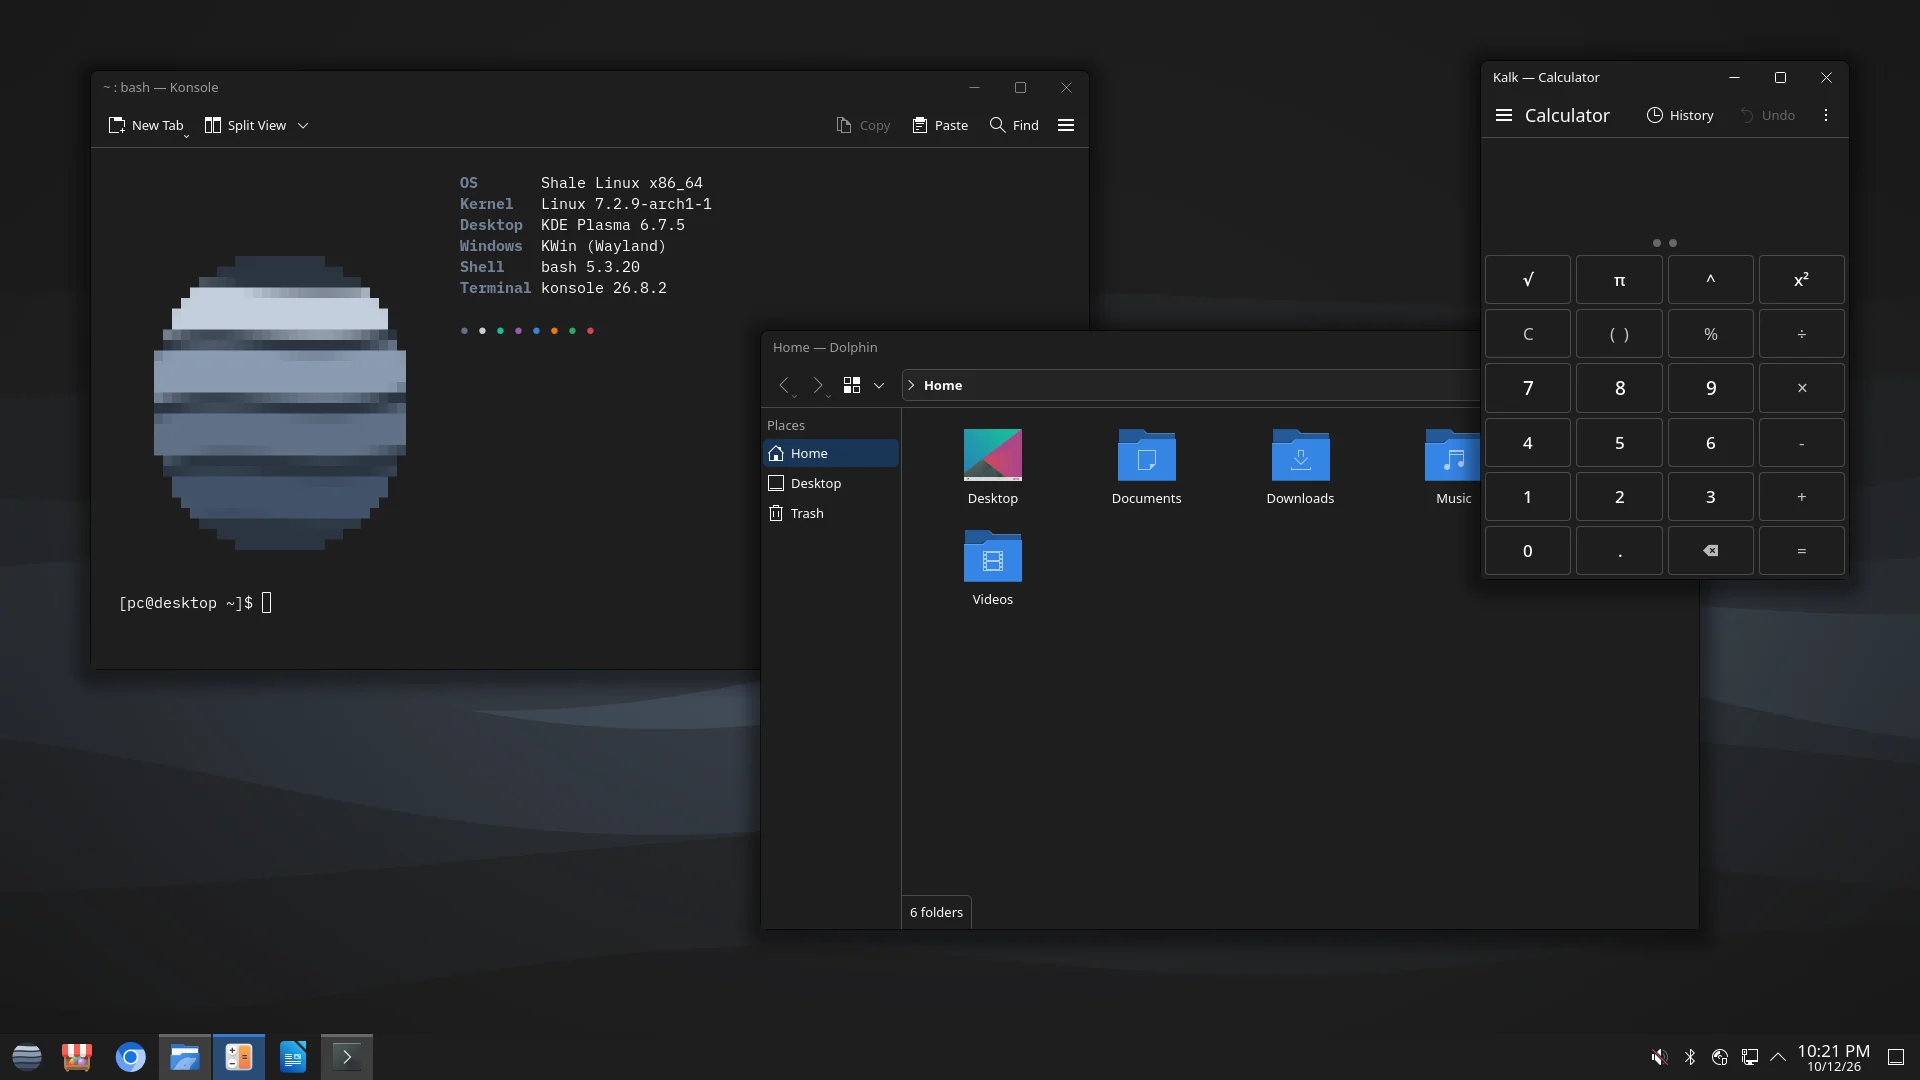
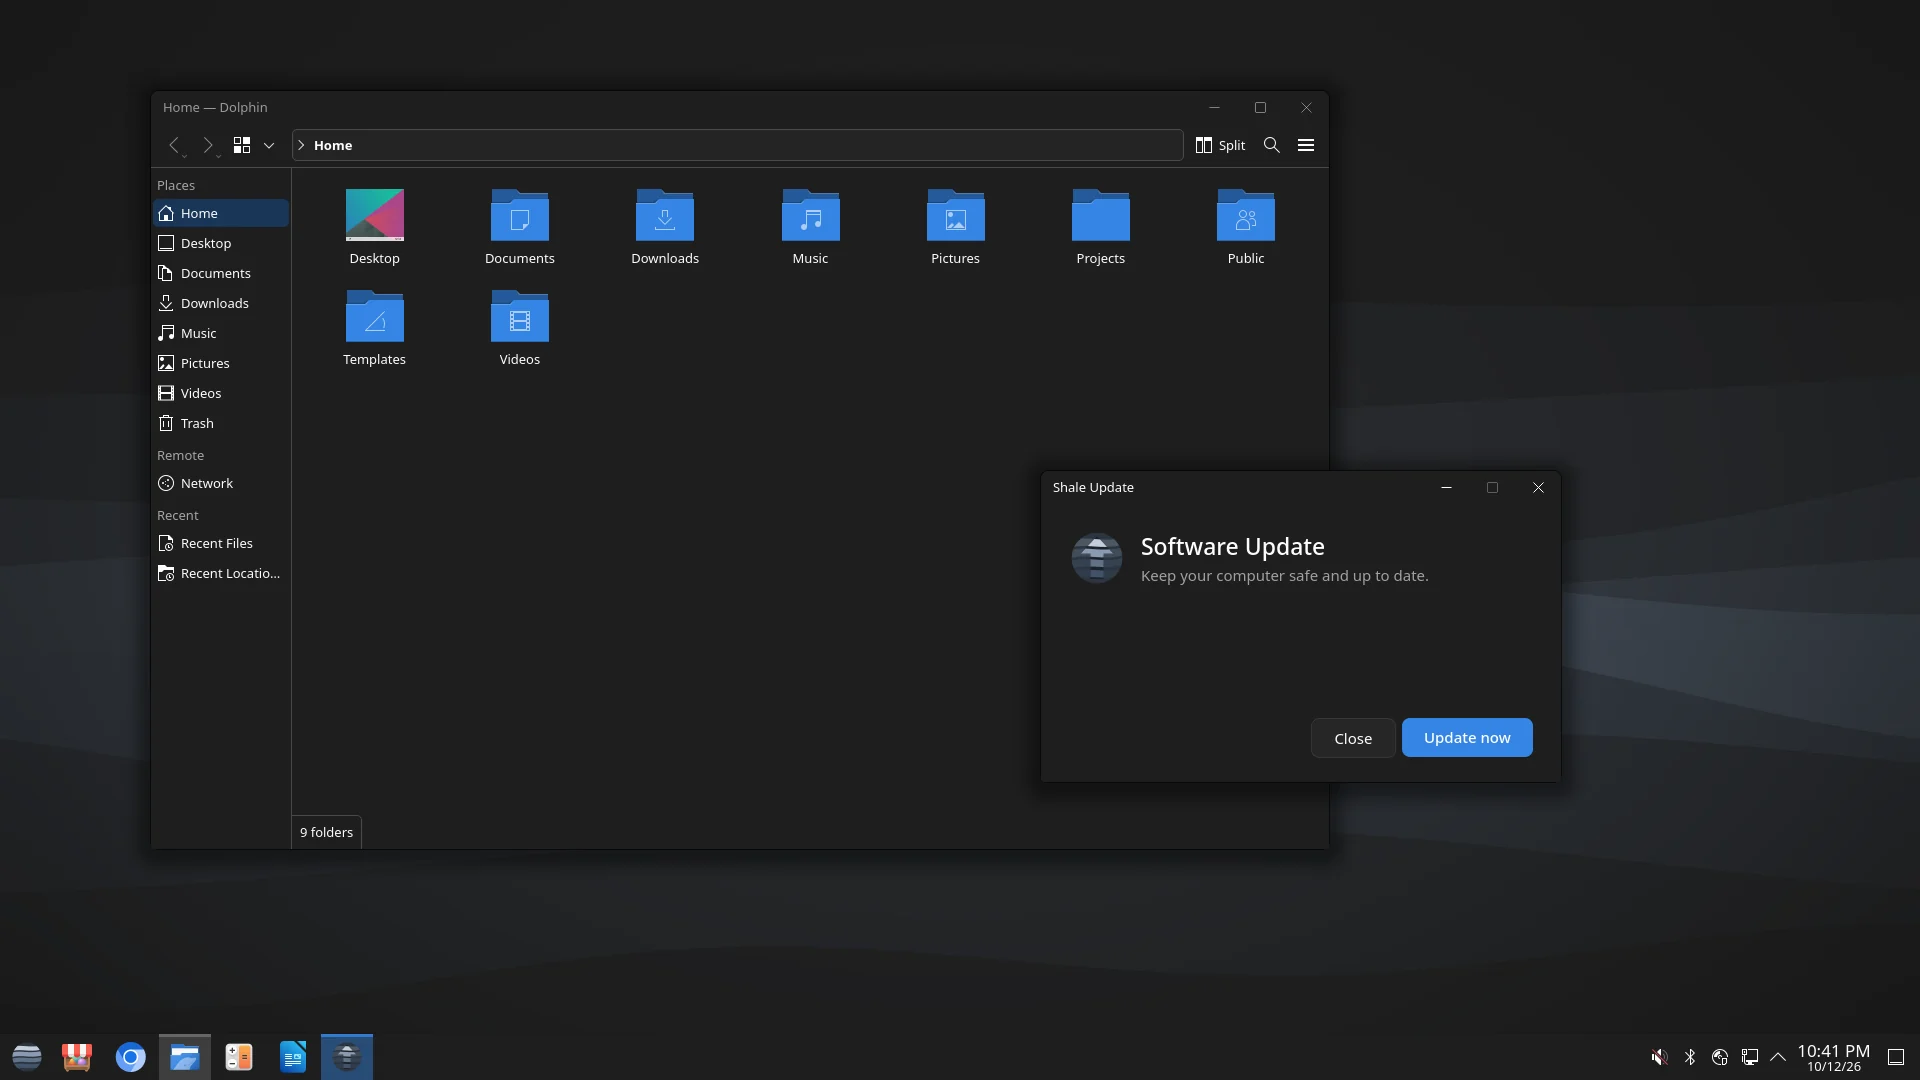
Website: back to the original look, with the theme switcher
Keep the original colours and logo hero. Show Software Update and the
file manager (default sidebar) in each theme, put Updates before
Snapshots and drop the "If you've used Windows" section.

diff --git a/website/index.html b/website/index.html
@@ -10,21 +10,17 @@
 <link rel="preconnect" href="https://fonts.gstatic.com" crossorigin>
 <link rel="stylesheet" href="https://fonts.googleapis.com/css2?family=Bricolage+Grotesque:opsz,wght@12..96,400..800&family=Figtree:wght@400;500;600&display=swap">
 <style>
-/* Layout: a calm, friendly walk-through that shows the desktop itself. A welcoming
-   hero with a big real screenshot over soft wavy strata, a theme switcher, then one idea
-   per section, ending in a plain FAQ. Warm, soft greys with gentle colour glows, the
-   logo's slate and Shale's blue as accents. Dark only, like the desktop's default. */
+/* Layout: a calm, friendly walk-through. A big welcoming hero over soft wavy strata,
+   then one idea per section, alternating text and pictures, ending in a plain FAQ.
+   The desktop's own colours (#1e1e1e, like Shale Dark) with the logo's slate as the
+   accent. Deliberately dark only, like the desktop itself. */
 :root {
   color-scheme: dark;
-  --ground: #16151a;       /* page: a soft, slightly warm near-black */
-  --raised: rgb(255 255 255 / .04);  /* cards, panels */
-  --seam: rgb(255 255 255 / .08);    /* borders */
-  --ink: #ebe7e2;          /* text: warm off-white, easier on the eyes */
-  --soft: #aaa4ac;         /* secondary text */
-  --glow-blue: rgb(53 132 228 / .20);
-  --glow-peach: rgb(242 169 126 / .13);
-  --glow-lilac: rgb(155 109 200 / .14);
-  --peach: #f2b48f;
+  --ground: #161616;       /* page: a step darker than Shale Dark */
+  --raised: #1e1e1e;       /* cards, panels: Shale Dark */
+  --seam: #2e2e2e;         /* borders */
+  --ink: #ececec;          /* text */
+  --soft: #a3a3a3;         /* secondary text */
   --mist: #c3cfdc;         /* accent: the logo's top stratum */
   --on-mist: #15191f;
   --blue: #3584e4;         /* buttons: Shale's accent, as in its own apps */
@@ -39,21 +35,16 @@
 * { box-sizing: border-box; }
 html { scroll-behavior: smooth; }
 @media (prefers-reduced-motion: reduce) { html { scroll-behavior: auto; } }
-body { margin: 0; background: var(--ground); color: var(--ink); font: 400 1.0625rem/1.65 var(--body); -webkit-font-smoothing: antialiased;
-  background-image: radial-gradient(60rem 40rem at 85% -5%, var(--glow-blue), transparent 70%),
-                    radial-gradient(50rem 36rem at 0% 30%, var(--glow-lilac), transparent 70%),
-                    radial-gradient(56rem 40rem at 100% 65%, var(--glow-peach), transparent 70%),
-                    radial-gradient(50rem 36rem at 10% 95%, var(--glow-blue), transparent 70%);
-  background-repeat: no-repeat; }
+body { margin: 0; background: var(--ground); color: var(--ink); font: 400 1.0625rem/1.65 var(--body); -webkit-font-smoothing: antialiased; }
 a { color: inherit; text-underline-offset: 3px; }
 a:focus-visible, button:focus-visible, summary:focus-visible { outline: 2px solid var(--mist); outline-offset: 3px; border-radius: 6px; }
 .wrap { max-width: 1100px; margin-inline: auto; padding-inline: 20px; }
 h1, h2, h3 { font-family: var(--display); margin: 0; text-wrap: balance; letter-spacing: -0.015em; }
-h2 { font-size: clamp(2rem, 4.2vw, 2.9rem); font-weight: 650; line-height: 1.1; }
+h2 { font-size: clamp(2rem, 4.2vw, 2.9rem); font-weight: 700; line-height: 1.08; }
 h3 { font-size: 1.25rem; font-weight: 650; line-height: 1.25; }
 p { margin: 0; }
 .lede { color: var(--soft); font-size: 1.15rem; max-width: 56ch; }
-.kicker { display: inline-block; justify-self: start; font: 600 0.9rem/1 var(--body); color: var(--peach); background: rgb(242 180 143 / .1); border: 1px solid rgb(242 180 143 / .22); padding: 7px 12px; border-radius: 999px; }
+.kicker { font: 600 0.95rem/1 var(--body); color: var(--soft); }
 
 /* nav */
 .nav { display: flex; align-items: center; justify-content: space-between; gap: 16px; padding-block: 22px; }
@@ -65,13 +56,8 @@ p { margin: 0; }
 
 /* hero */
 .hero { position: relative; overflow: hidden; }
-.hero-in { position: relative; z-index: 1; display: grid; justify-items: center; text-align: center; padding-block: 40px 0; }
-.hero-in .lede { margin-inline: auto; }
-.hero-in .cta, .hero-in .reassure { justify-content: center; }
-.hero h1 { font-size: clamp(2.6rem, 6.2vw, 4.6rem); font-weight: 750; line-height: 1.04; letter-spacing: -0.03em; max-width: 16ch; }
-.showcase { position: relative; z-index: 1; margin: 56px auto 0; max-width: 1100px; padding-bottom: 120px; }
-.screen { display: block; width: 100%; height: auto; border-radius: 16px; border: 1px solid rgb(255 255 255 / .1);
-  box-shadow: 0 2px 0 rgb(255 255 255 / .04) inset, 0 40px 90px -20px rgb(0 0 0 / .65), 0 0 0 10px rgb(255 255 255 / .03); }
+.hero-in { position: relative; z-index: 1; display: grid; grid-template-columns: minmax(0, 1.2fr) minmax(0, 0.8fr); gap: 40px; align-items: center; padding-block: 48px 220px; }
+.hero h1 { font-size: clamp(2.8rem, 6.6vw, 5rem); font-weight: 800; line-height: 1.02; letter-spacing: -0.03em; }
 .hero .lede { margin-top: 22px; font-size: 1.25rem; }
 .cta { display: flex; flex-wrap: wrap; gap: 12px; margin-top: 30px; }
 .btn { display: inline-flex; align-items: center; gap: 10px; padding: 15px 24px; border-radius: 14px; font: 600 1.05rem/1 var(--body); text-decoration: none; border: 1px solid var(--seam); color: var(--ink); background: var(--raised); transition: border-color .15s, transform .15s; }
@@ -84,7 +70,10 @@ p { margin: 0; }
 .reassure { display: flex; flex-wrap: wrap; gap: 8px 20px; margin-top: 20px; color: var(--soft); font-size: 0.95rem; list-style: none; padding: 0; }
 .reassure li { display: flex; align-items: center; gap: 7px; }
 .reassure li::before { content: ""; width: 8px; height: 8px; border-radius: 50%; background: var(--good); }
-#strata { position: absolute; inset: auto 0 0 0; width: 100%; height: 340px; display: block; }
+.hero-mark { justify-self: center; width: min(100%, 340px); aspect-ratio: 1; max-width: 100%; }
+.hero-mark svg { width: 100%; height: 100%; filter: drop-shadow(0 26px 44px rgb(0 0 0 / .35)); }
+#strata { position: absolute; inset: auto 0 0 0; width: 100%; height: 200px; display: block; }
+.screen { display: block; width: 100%; height: auto; border-radius: 10px; border: 1px solid var(--seam); box-shadow: 0 24px 60px rgb(0 0 0 / .45); }
 
 /* themes */
 .themes { text-align: center; }
@@ -106,7 +95,7 @@ p { margin: 0; }
 
 /* everyday */
 .everyday { display: grid; grid-template-columns: repeat(3, minmax(0, 1fr)); gap: 16px; margin-top: 40px; }
-.task { background: var(--raised); border: 1px solid var(--seam); border-radius: 22px; padding: 24px; display: grid; gap: 8px; align-content: start; }
+.task { background: var(--raised); border: 1px solid var(--seam); border-radius: 18px; padding: 24px; display: grid; gap: 8px; align-content: start; }
 .task .ico { width: 52px; height: 52px; display: block; margin-bottom: 4px; }
 .app-ico { width: 64px; height: 64px; display: block; }
 .traits { display: grid; grid-template-columns: repeat(4, minmax(0, 1fr)); gap: 16px; margin-top: 40px; }
@@ -116,7 +105,7 @@ p { margin: 0; }
 .task .app b { color: var(--ink); font-weight: 600; }
 
 /* undo */
-.undo { background: linear-gradient(160deg, rgb(53 132 228 / .1), rgb(155 109 200 / .07) 50%, rgb(242 169 126 / .06)); border: 1px solid var(--seam); border-radius: 30px; padding: clamp(24px, 5vw, 56px); }
+.undo { background: var(--raised); border: 1px solid var(--seam); border-radius: 24px; padding: clamp(24px, 5vw, 56px); }
 .undo-steps { display: grid; gap: 16px; list-style: none; margin: 0; padding: 0; }
 .undo-steps li { display: grid; grid-template-columns: 36px minmax(0, 1fr); gap: 14px; align-items: start; }
 .num { width: 36px; height: 36px; border-radius: 50%; display: grid; place-items: center; background: var(--blue); color: #ffffff; font: 700 1rem/1 var(--display); }
@@ -128,9 +117,6 @@ p { margin: 0; }
 .solo { max-width: 560px; margin: 44px auto 0; }
 .solo .caption { text-align: center; }
 
-/* familiar */
-.split.desk-split { grid-template-columns: minmax(0, 1.3fr) minmax(0, 0.7fr); }
-.desktop-shot { display: block; width: 100%; height: auto; border-radius: 14px; border: 1px solid rgb(255 255 255 / .1); box-shadow: 0 30px 70px -18px rgb(0 0 0 / .6); }
 .mock { border-radius: 10px; overflow: hidden; background: #1e1e1e; box-shadow: 0 0 0 1px rgb(0 0 0 / .6), 0 22px 50px rgb(0 0 0 / .3); color: #e8ecf1; }
 .mock .bar { display: flex; height: 34px; align-items: stretch; font: 400 0.85rem/34px var(--body); }
 .mock .bar .t { flex: 1; padding-inline: 14px; color: #cfd6de; white-space: nowrap; overflow: hidden; text-overflow: ellipsis; }
@@ -151,7 +137,7 @@ p { margin: 0; }
 
 /* get */
 .steps { list-style: none; margin: 40px 0 0; padding: 0; display: grid; grid-template-columns: repeat(4, minmax(0, 1fr)); gap: 16px; counter-reset: s; }
-.steps li { counter-increment: s; background: var(--raised); border: 1px solid var(--seam); border-radius: 22px; padding: 24px; display: grid; gap: 8px; align-content: start; }
+.steps li { counter-increment: s; background: var(--raised); border: 1px solid var(--seam); border-radius: 18px; padding: 24px; display: grid; gap: 8px; align-content: start; }
 .steps li::before { content: counter(s); width: 36px; height: 36px; border-radius: 50%; display: grid; place-items: center; background: var(--blue); color: #ffffff; font: 700 1rem/1 var(--display); }
 .steps p { color: var(--soft); }
 .need { margin-top: 20px; display: grid; grid-template-columns: minmax(0, 1fr) minmax(0, 1fr); gap: 16px; }
@@ -181,9 +167,9 @@ footer .wrap { display: flex; flex-wrap: wrap; justify-content: space-between; g
 footer .brand { color: var(--ink); }
 
 @media (max-width: 880px) {
-  .hero-in, .split, .split.wide-pic, .split.desk-split, .curious .wrap, .need { grid-template-columns: minmax(0, 1fr); }
-  .hero-in { padding-block: 24px 0; }
-  .showcase { margin-top: 36px; padding-bottom: 80px; }
+  .hero-in, .split, .split.wide-pic, .curious .wrap, .need { grid-template-columns: minmax(0, 1fr); }
+  .hero-in { padding-block: 24px 190px; }
+  .hero-mark { width: 180px; justify-self: start; grid-row: 1; }
   .everyday, .steps, .traits { grid-template-columns: repeat(2, minmax(0, 1fr)); }
   .section { padding-block: 64px; }
 }
@@ -226,19 +212,19 @@ footer .brand { color: var(--ink); }
       </ul>
     </nav>
     <div class="hero-in">
-      <h1>A calm, friendly home for your computer</h1>
-      <p class="lede" style="margin-top:22px">Shale is an operating system for your PC, like Windows or macOS. Install it once and everything is ready: your browser, office apps, music and games. No tech skills needed.</p>
-      <div class="cta">
-        <a class="btn primary" href="#get"><svg viewBox="0 0 24 24" fill="none" stroke="currentColor" stroke-width="2" stroke-linecap="round" stroke-linejoin="round" aria-hidden="true"><path d="M12 4v11m0 0l-4.5-4.5M12 15l4.5-4.5M5 20h14"/></svg>Get Shale, it's free</a>
-        <a class="btn" href="#themes">See the desktop</a>
+      <div>
+        <h1>A calm, friendly home for your computer</h1>
+        <p class="lede">Shale is an operating system for your PC, like Windows or macOS. Install it once and everything is ready: your browser, office apps, music and games. No tech skills needed.</p>
+        <div class="cta">
+          <a class="btn primary" href="#get"><svg viewBox="0 0 24 24" fill="none" stroke="currentColor" stroke-width="2" stroke-linecap="round" stroke-linejoin="round" aria-hidden="true"><path d="M12 4v11m0 0l-4.5-4.5M12 15l4.5-4.5M5 20h14"/></svg>Get Shale, it's free</a>
+          <a class="btn" href="#themes">See the desktop</a>
+        </div>
+        <ul class="reassure">
+          <li>Easy to install</li>
+          <li>No ads, tracking or accounts</li>
+        </ul>
       </div>
-      <ul class="reassure">
-        <li>Easy to install</li>
-        <li>No ads, tracking or accounts</li>
-      </ul>
-    </div>
-    <div class="showcase">
-      <img class="screen" src="shots/dark.webp" width="1920" height="1080" alt="The Shale desktop with a terminal showing the Shale logo, the Files app and the Calculator open over the layered grey wallpaper, with the taskbar along the bottom">
+      <div class="hero-mark"><svg viewBox="0 0 128 128" role="img" aria-label="The Shale logo: soft grey layers of rock inside a circle"><use href="#shale-mark"/></svg></div>
     </div>
   </div>
   <canvas id="strata" aria-hidden="true"></canvas>
@@ -249,13 +235,13 @@ footer .brand { color: var(--ink); }
     <div class="wrap">
       <p class="kicker">Make it yours</p>
       <h2 style="margin-top:14px">Light, dark or darker</h2>
-      <p class="lede">Pick a look in Settings and the whole desktop follows: windows, the taskbar, the wallpaper and even the terminal.</p>
+      <p class="lede">Pick a look in Settings and the whole desktop follows: windows, the taskbar, the wallpaper and Shale's own apps.</p>
       <div class="tabs" role="tablist" aria-label="Desktop themes">
-        <button role="tab" aria-selected="false" data-shot="dark" data-alt="The Shale desktop in the Shale theme, dark grey"><i style="background:#1e1e1e"></i>Shale</button>
-        <button role="tab" aria-selected="false" data-shot="darker" data-alt="The Shale desktop in the Shale Darker theme, a deeper near-black grey"><i style="background:#141414"></i>Shale Darker</button>
-        <button role="tab" aria-selected="true" data-shot="light" data-alt="The Shale desktop in the Shale Light theme, with a light wallpaper, light windows and a light terminal"><i style="background:#eff0f1"></i>Shale Light</button>
+        <button role="tab" aria-selected="false" data-shot="dark" data-alt="The Files app and Software Update on the Shale desktop in the Shale theme, dark grey"><i style="background:#1e1e1e"></i>Shale</button>
+        <button role="tab" aria-selected="false" data-shot="darker" data-alt="The Files app and Software Update on the Shale desktop in the Shale Darker theme, a deeper near-black grey"><i style="background:#141414"></i>Shale Darker</button>
+        <button role="tab" aria-selected="true" data-shot="light" data-alt="The Files app and Software Update on the Shale desktop in the Shale Light theme, with a light wallpaper and light windows"><i style="background:#eff0f1"></i>Shale Light</button>
       </div>
-      <img class="screen" id="theme-shot" src="shots/light.webp" width="1920" height="1080" alt="The Shale desktop in the Shale Light theme, with a light wallpaper, light windows and a light terminal" role="tabpanel">
+      <img class="screen" id="theme-shot" src="shots/light.webp" width="1920" height="1080" alt="The Files app and Software Update on the Shale desktop in the Shale Light theme, with a light wallpaper and light windows" role="tabpanel">
     </div>
   </section>
 
@@ -333,6 +319,23 @@ footer .brand { color: var(--ink); }
     </div>
   </section>
 
+  <section class="section" id="updates">
+    <div class="wrap">
+      <div class="split">
+        <div class="stack">
+          <img class="app-ico" src="icons/shale-update.svg" width="64" height="64" alt="Software Update icon">
+          <p class="kicker">Updates</p>
+          <h2>One click keeps everything up to date</h2>
+        </div>
+        <div class="stack">
+          <p class="lede">Open Software Update and click Update now. Your whole computer and every app update together, with a progress bar and no password to type.</p>
+          <p class="lede">A restore point is saved first, and you restart whenever it suits you.</p>
+        </div>
+      </div>
+      <figure class="solo"><img class="shot" src="update-done.png" width="1100" height="702" alt="Software Update saying Your computer is up to date, with a Done button"><figcaption class="caption">One click, and you're up to date.</figcaption></figure>
+    </div>
+  </section>
+
   <section class="section" id="undo">
     <div class="wrap undo">
       <div class="split">
@@ -349,37 +352,6 @@ footer .brand { color: var(--ink); }
         </ol>
       </div>
       <img class="big-shot" src="snapshots.png" width="1200" height="964" alt="Shale Snapshots listing three saved copies, including one made before an update, with the status Snapshots are on">
-    </div>
-  </section>
-
-  <section class="section">
-    <div class="wrap split desk-split">
-      <div>
-        <img class="desktop-shot" src="shots/menu.webp" width="1920" height="1080" alt="The Shale start menu open in the bottom corner, with Chromium, Files, Calculator, Bazaar, LibreOffice Writer, Software Update and Shale Snapshots in its favourites">
-        <p class="caption">The start menu, right where you'd look for it.</p>
-      </div>
-      <div class="stack">
-        <p class="kicker">Feels familiar</p>
-        <h2>If you've used Windows, you already know your way around</h2>
-        <p class="lede">The start menu is in the bottom corner, your open apps sit on the taskbar, and every window has minimize, maximize and close in the top right.</p>
-      </div>
-    </div>
-  </section>
-
-  <section class="section" style="padding-top:0">
-    <div class="wrap">
-      <div class="split">
-        <div class="stack">
-          <img class="app-ico" src="icons/shale-update.svg" width="64" height="64" alt="Software Update icon">
-          <p class="kicker">Updates</p>
-          <h2>One click keeps everything up to date</h2>
-        </div>
-        <div class="stack">
-          <p class="lede">Open Software Update and click Update now. Your whole computer and every app update together, with a progress bar and no password to type.</p>
-          <p class="lede">A restore point is saved first, and you restart whenever it suits you.</p>
-        </div>
-      </div>
-      <figure class="solo"><img class="shot" src="update-done.png" width="1100" height="702" alt="Software Update saying Your computer is up to date, with a Done button"><figcaption class="caption">One click, and you're up to date.</figcaption></figure>
     </div>
   </section>
 
